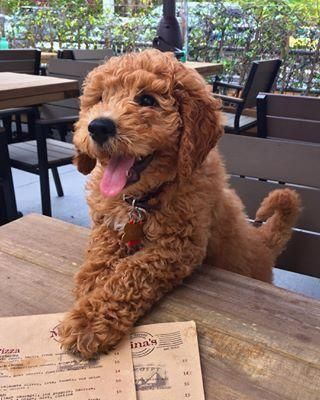
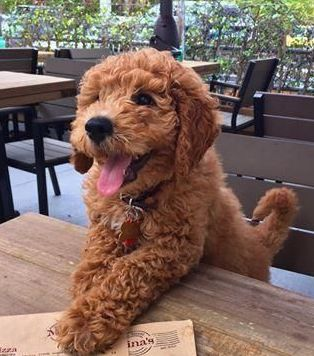
formatted pup profile pics

diff --git a/index.html b/index.html
@@ -469,27 +469,27 @@
 						final project for our CS171 Visualization class. We would like to extend a huge thank you
 						to our TF, Robert Roessler, for his help and guidance on our website.
 					</p>
-					<p>Our team name was the Golden Doodles, and so we found "spirit goldendoodles" for all of the team
+					<p>Our team name was the Golden Doodles, and so we found "spirit Goldendoodles" for all of the team
 						members and for Rob as well!
 					</p>
 					<div class="row">
-						<div>
+						<div class="col-sm">
 							<img src="img/chris.jpg" class="avatar"> <br/>
 							<h6 class="avatar-text"> Chris Cheon </h6>
 						</div>
-						<div>
+						<div class="col-sm">
 						<img src="img/steph.jpg" class="avatar"> <br/>
 						<h6 class="avatar-text"> Estefania Lahera </h6>
 						</div>
-						<div>
+						<div class="col-sm">
 						<img src="img/kamila.jpg" class="avatar"> <br/>
 						<h6 class="avatar-text"> Kamila Czachorowski </h6>
 						</div>
-						<div>
+						<div class="col-sm">
 						<img src="img/winnie.jpg" class="avatar"> <br/>
 						<h6 class="avatar-text"> Winnie Wang </h6>
 						</div>
-						<div>
+						<div class="col-sm">
 						<img src="img/rob.jpg" class="avatar"> <br/>
 						<h6 class="avatar-text"> Robert Roessler </h6>
 						</div>
